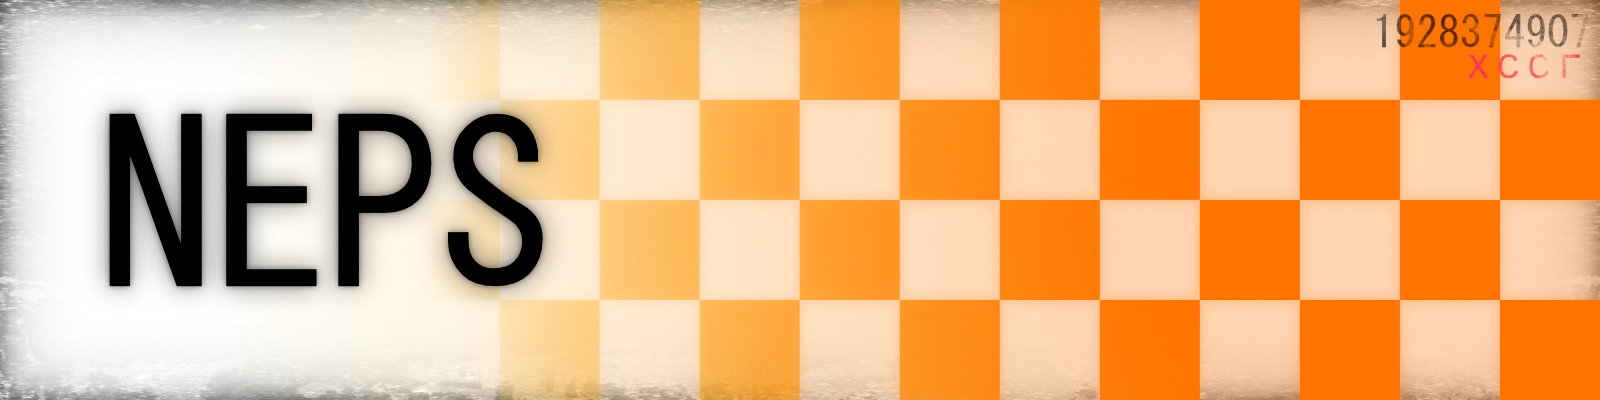
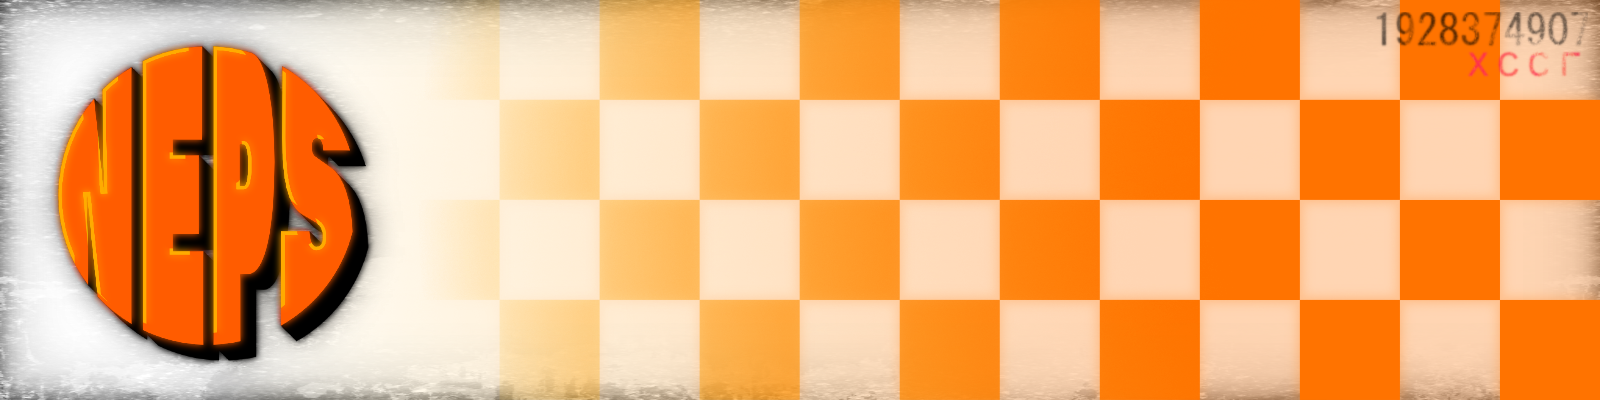
Updated cover.png

Changed region(s): [[0.0312, 0.09, 0.3438, 0.93], [0.8438, 0.03, 1.0, 0.21]]

diff --git a/README.md b/README.md
@@ -1,9 +1,11 @@
 ![COVER](https://raw.githubusercontent.com/degeneratehyperbola/NEPS/master/cover.png)
 
-<h1 align="center">NEPS NEPS NEPS NEPS NEPS NEPS NEPS NEPS NEPS</h1>
+<div align="center">
+# NEPS NEPS NEPS NEPS NEPS NEPS NEPS NEPS NEPS
 
 ![ISSUES](https://img.shields.io/github/issues/degeneratehyperbola/NEPS?color=orange&label=Issues&style=plastic)
 ![VERSION](https://img.shields.io/github/v/release/degeneratehyperbola/NEPS?color=orange&label=Version&style=plastic)
+</div>
 
 An open source bloat-free CS:GO cheat for Windows, based on Osiris.
 You should probably give it a go, as it was in development for about a year.
@@ -36,8 +38,7 @@ If you are not a nerd, than good for you as it is pretty simple to get started!
 # NEPcord
 **NEPS has official Discord as well!**
 
-![CHANGELOG](https://img.shields.io/discord/715296405513830442?color=orange&label=Changelog&style=plastic)
-![Discord](https://img.shields.io/discord/715296405513830442?color=orange&label=Discord&style=plastic)
+![DISCORD ONLINE](https://img.shields.io/discord/715296405513830442?color=orange&label=Discord&style=plastic)
 
 https://discord.gg/pwB3XBppVr
 
